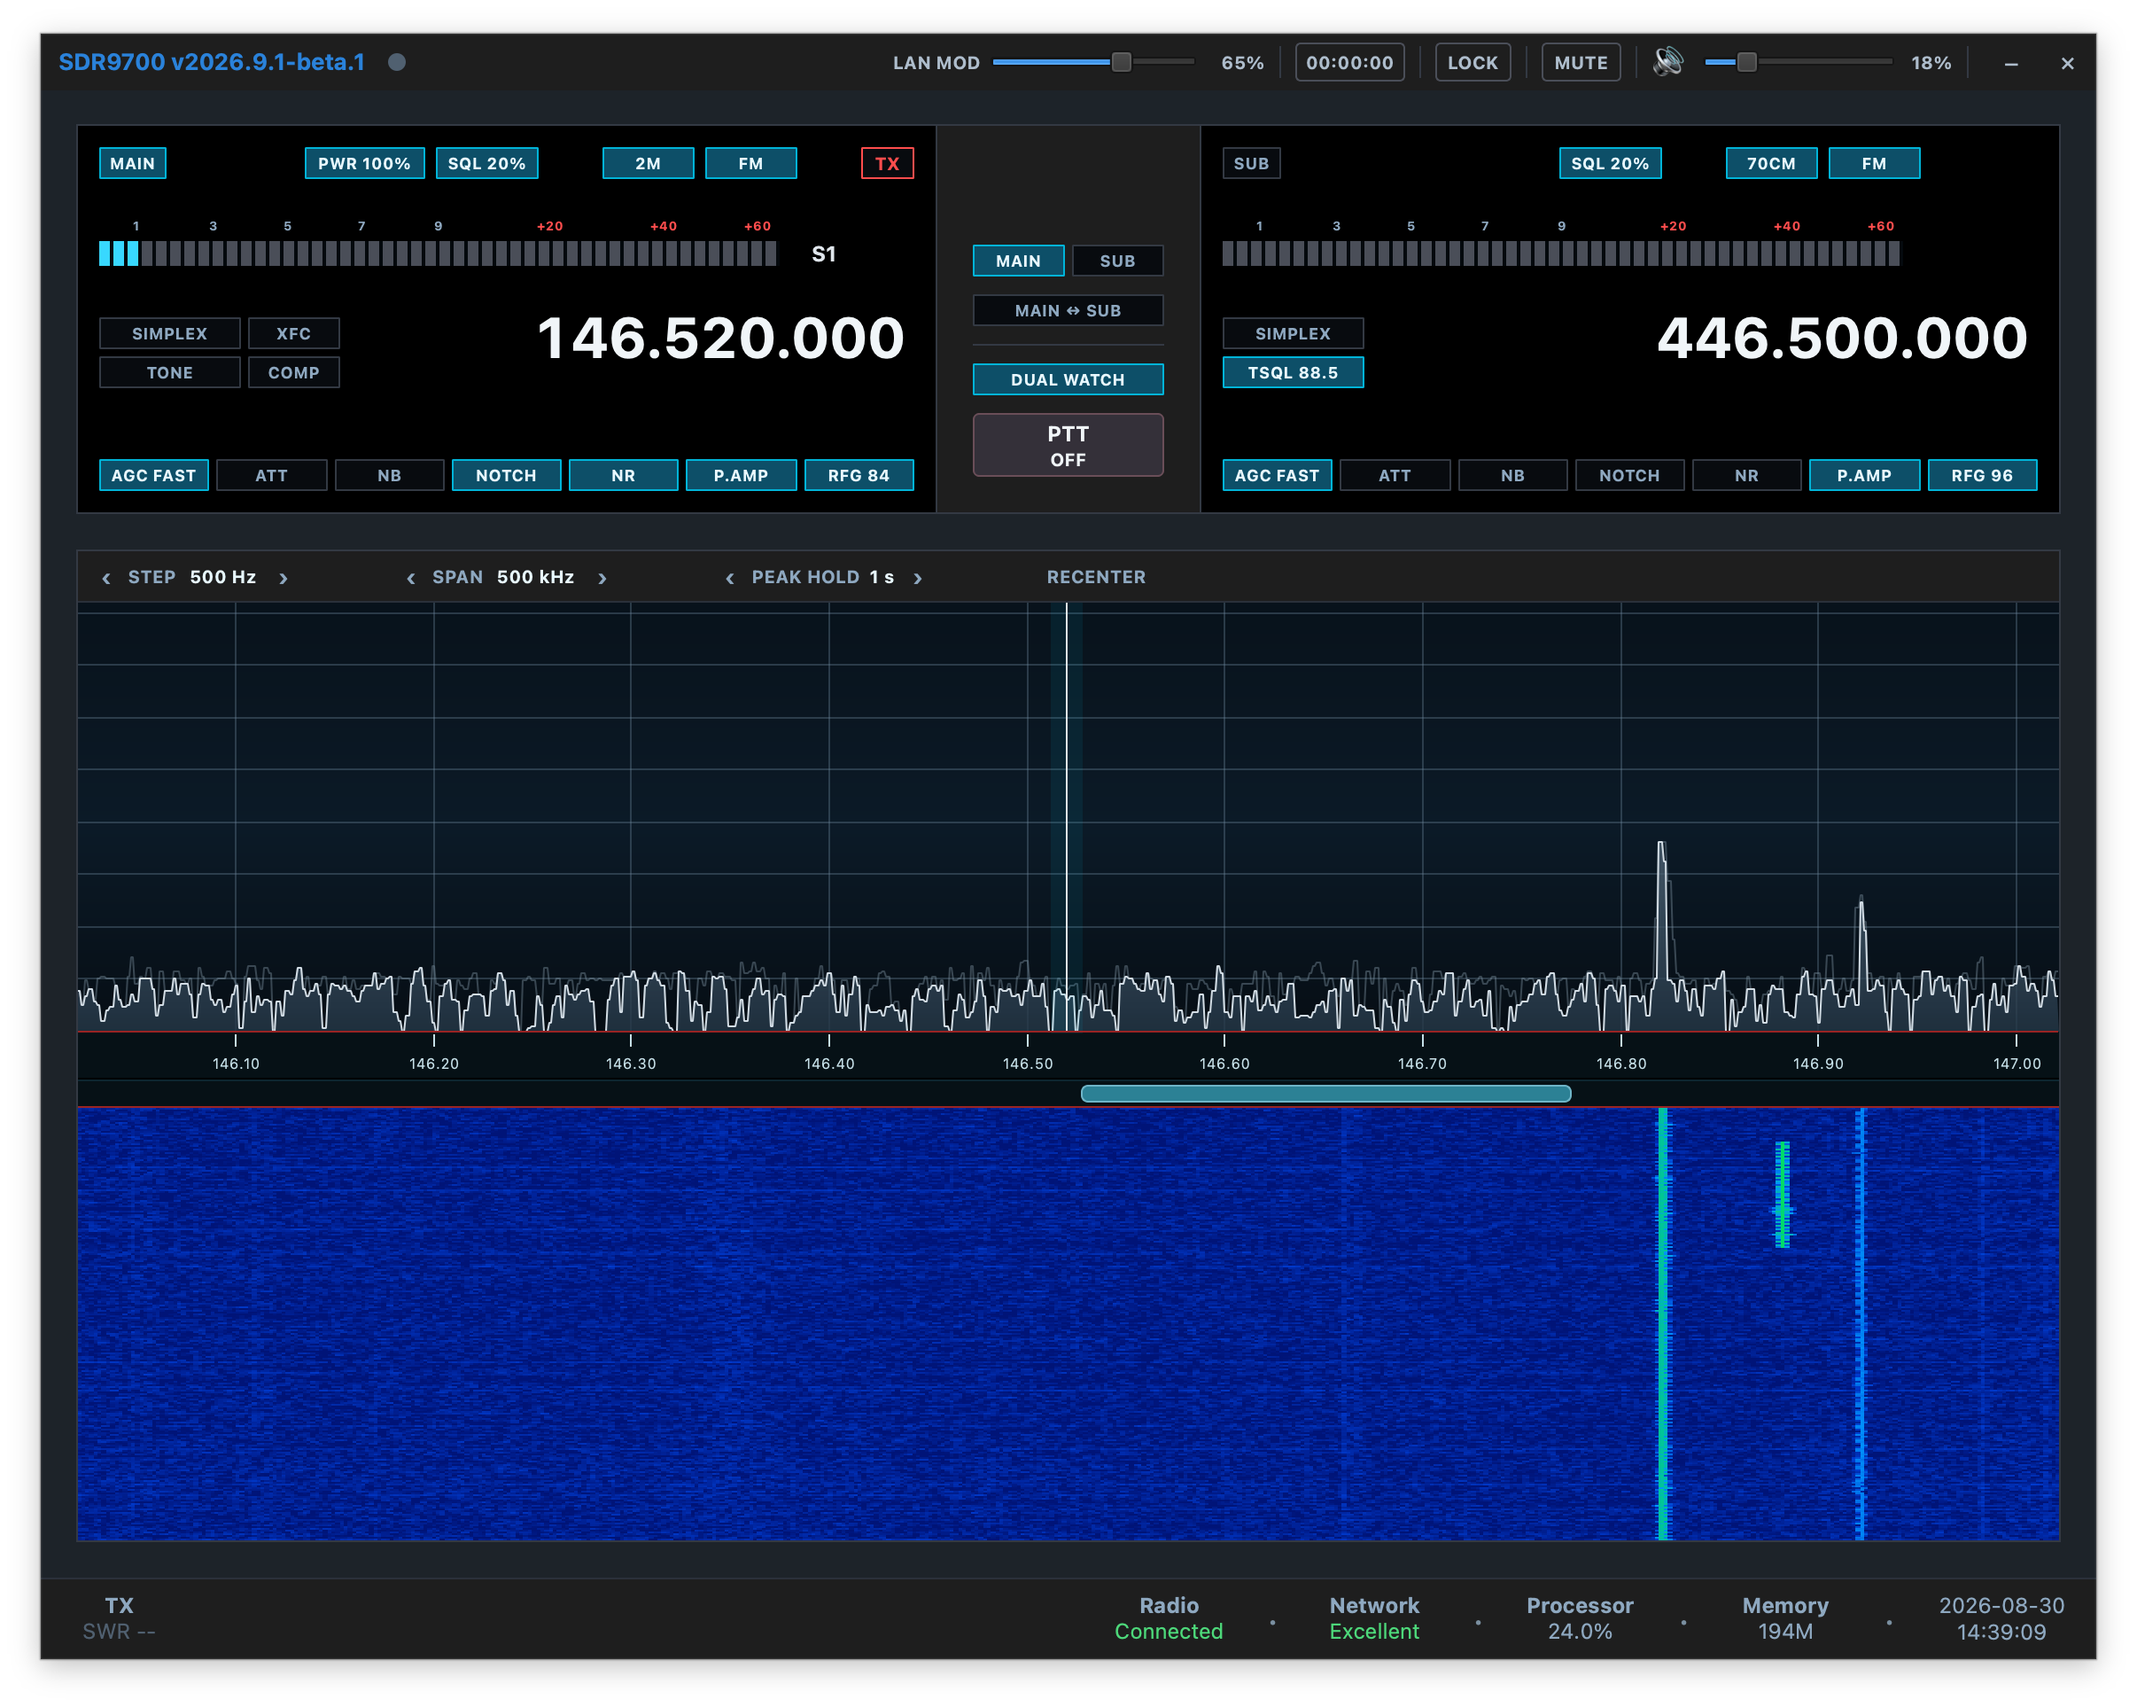
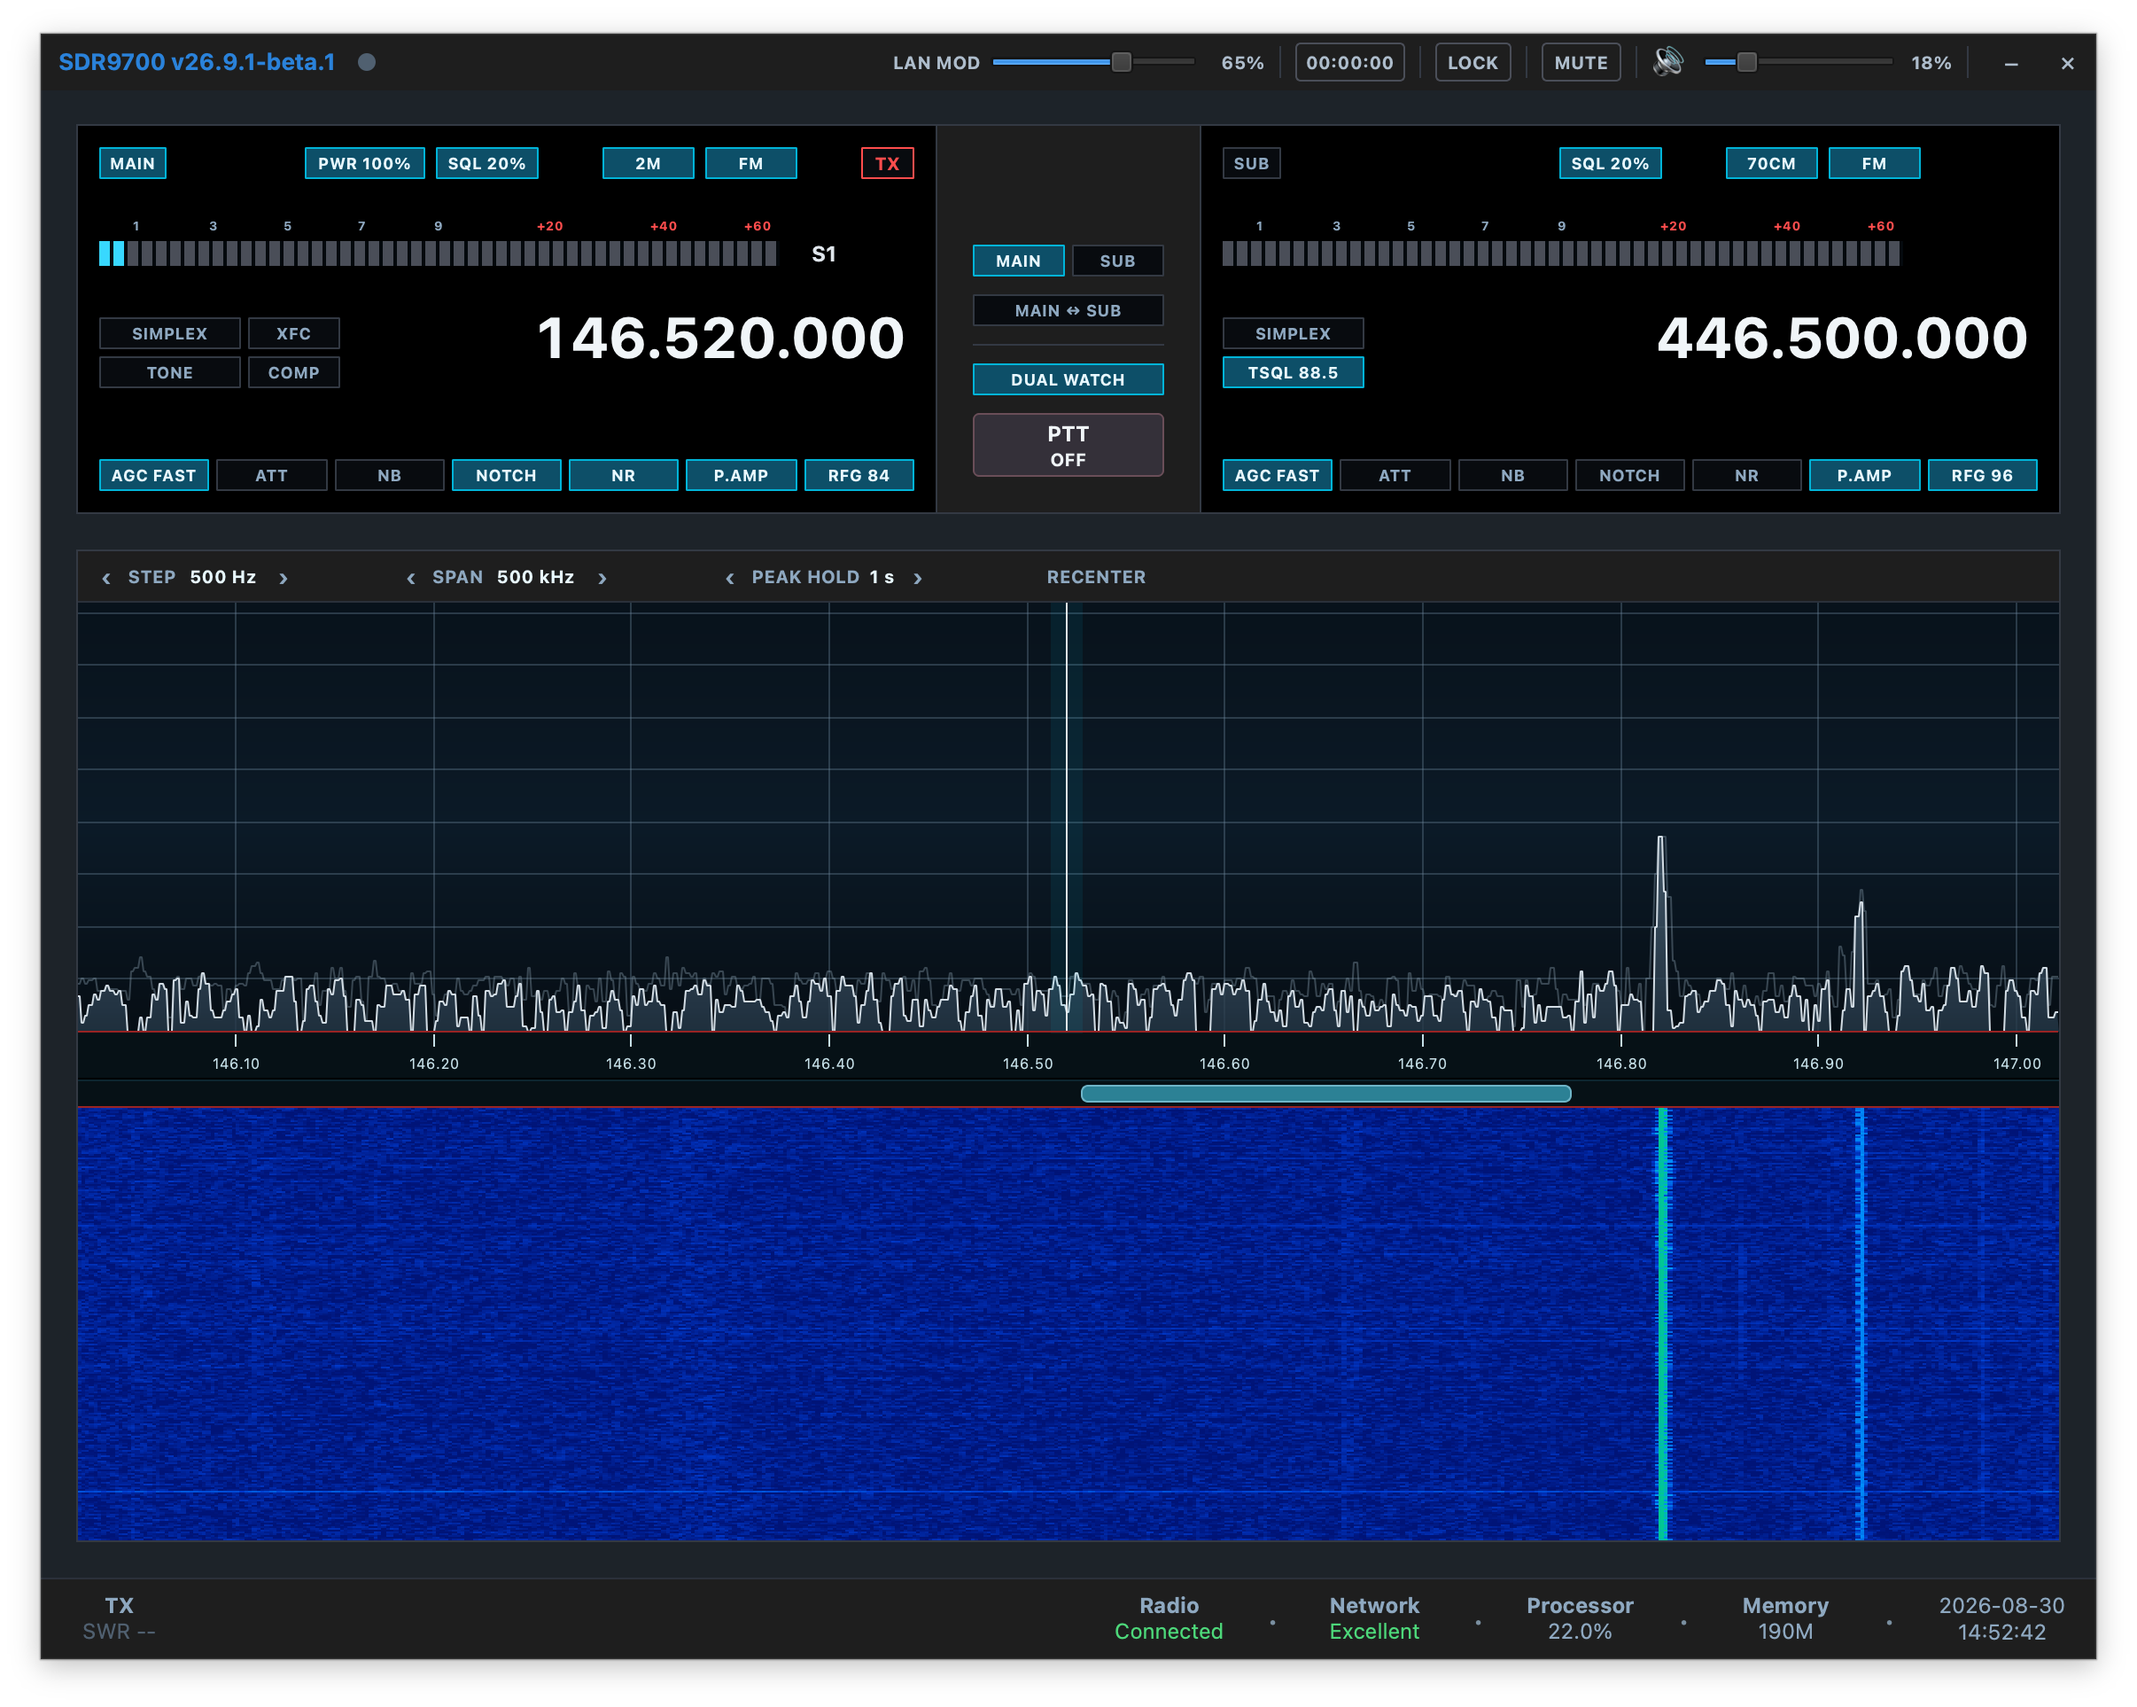
Organize project documentation

diff --git a/docs/development/RELEASING.md b/docs/development/RELEASING.md
@@ -1,0 +1,56 @@
+# Releasing SDR9700
+
+Every GitHub release must include substantive, maintainer-readable release
+notes. GitHub-generated notes may be used as source material, but a changelog
+link by itself is not an acceptable release description.
+
+## Version naming
+
+SDR9700 versions use `YY.M.R`, where `YY` is the final two digits of the
+calendar year, `M` is the numeric month without a leading zero, and `R` is the
+release sequence for that month. For example, the first September 2026 release
+is `26.9.1`.
+
+Stable releases use the numeric version directly, for example `26.9.1`.
+Prereleases append a hyphenated prerelease identifier, starting with
+`-beta.1` and incrementing the final number for each subsequent beta, for
+example `26.9.1-beta.1` and `26.9.1-beta.2`.
+
+Keep the CMake project version numeric because CMake's `project(VERSION)`
+field does not accept prerelease suffixes. For a beta of `26.9.1`, set the
+project version to `26.9.1` and `SDR9700_DISPLAY_VERSION` to the complete
+prerelease version such as `26.9.1-beta.1`.
+
+Do not include a leading `v` in `SDR9700_DISPLAY_VERSION`. The application
+adds that prefix when it builds the title bar, which must read
+`SDR9700 v<version>` (for example, `SDR9700 v26.9.1-beta.1`).
+
+Git tags always add a leading `v`. A beta release therefore uses a tag such
+as `v26.9.1-beta.1`, the title `SDR9700 v26.9.1-beta.1`, and must be marked as a
+GitHub prerelease. Create it with:
+
+```bash
+gh release create v26.9.1-beta.1 --target main --prerelease \
+  --title "SDR9700 v26.9.1-beta.1" --notes-file <file>
+```
+
+## Release checklist
+
+1. Set the numeric CMake project version and `SDR9700_DISPLAY_VERSION` in
+   `CMakeLists.txt`. Include the prerelease suffix only in the display version.
+2. Run a clean Release build with `make release`.
+3. Run the complete test suite with
+   `ctest --test-dir src/build --output-on-failure`.
+4. Write release notes that summarize user-visible highlights, improvements,
+   and fixes since the previous release. End with the full changelog comparison
+   link. Generated notes may be edited into the authored notes, but must not be
+   published without maintainer review.
+5. Commit and push the version change.
+6. Publish the release as `SDR9700 v<version>` with tag `v<version>`, target the
+   verified `main` commit, and supply the authored notes with
+   `gh release create --notes-file <file>`. Add `--prerelease` for beta builds.
+7. Read the published release back with `gh release view` and verify that it is
+   not a draft, its stable/prerelease state is correct, its title and tag match
+   the display version, and its body contains the reviewed notes.
+8. Confirm that the macOS release workflow started and will attach the signed,
+   notarized Apple Silicon DMG to the release.

diff --git a/docs/README.md b/docs/README.md
@@ -1,0 +1,30 @@
+# SDR9700 Documentation
+
+This directory contains maintained technical and developer documentation. Files
+that GitHub, contributors, or development tools conventionally discover at the
+repository root remain there; implementation details and research live here.
+
+## Architecture
+
+- [Architecture](ARCHITECTURE.md) describes the application layers, major
+  components, threading model, radio definitions, and current constraints.
+
+## Development
+
+- [Debugging](development/DEBUGGING.md) documents debug builds, runtime logging
+  categories, and log-file capture.
+- [Releasing](development/RELEASING.md) defines versioning, release notes, and
+  the verification and publication checklist.
+
+## IC-9700 Radio Protocol
+
+- [Radio Disconnect Process](radio/RADIO_DISCONNECT_PROCESS.md) records the
+  hardware-verified authenticated LAN teardown sequence and its regression
+  procedure.
+- [CI-V Command Audit](radio/research/CI_V_COMMAND_AUDIT.md) compares the Icom
+  command reference with SDR9700's compiled capability table.
+- [VFO Command Scope](radio/research/VFO_COMMAND_SCOPE.md) records the verified
+  and inferred receiver scope of MAIN/SUB-related CI-V controls.
+
+The locally retained Icom reference manual is research material under
+`resources/manuals/`; it is not SDR9700 source code or runtime configuration.

diff --git a/README.md b/README.md
@@ -177,18 +177,21 @@ On macOS:
 - `src/radio/`: IC-9700 LAN and CI-V radio protocol code.
 - `src/audio/`: Qt Multimedia audio handlers and conversion utilities.
 - `src/core/`: settings, profile storage, queues, and shared types.
+- `docs/`: architecture, development, protocol, and implementation research
+  documentation.
 - `resources/`: shared images, Qt resources, and platform-specific packaging
   assets under `resources/packaging/`.
 
-## Root Documentation
+## Documentation
+
+The [documentation index](docs/README.md) links the architecture, development,
+release, radio-protocol, and research material maintained with the source.
+
+Repository-level policy and community documents remain at the project root:
 
 - `AGENTS.md`: canonical AI-agent project guide.
 - `CONVENTIONS.md`: coding standards and engineering rules.
 - `CONTRIBUTING.md`: contributor workflow.
-- `DEBUG.md`: developer diagnostics.
-- `ARCHITECTURE.md`: current technical architecture.
-- `NETWORK_SHUTDOWN.md`: verified IC-9700 LAN teardown sequence and regression
-  history.
 - `SECURITY.md`: vulnerability reporting.
 - `CODE_OF_CONDUCT.md`: community behavior expectations.
 

diff --git a/docs/development/DEBUGGING.md b/docs/development/DEBUGGING.md
@@ -4,18 +4,37 @@ Use the debug build when you need debug symbols or debugger-friendly behavior:
 
 ```bash
 make debug
+```
+
+Launch the debug executable directly on Linux:
+
+```bash
 ./src/build/bin/SDR9700
+```
+
+On macOS, the executable is inside the application bundle:
+
+```bash
+./src/build/bin/SDR9700.app/Contents/MacOS/SDR9700
 ```
 
 `make debug` cleans and reconfigures `src/build` with CMake's `Debug` build
 type. Debug builds default to `--log=all` when no explicit log option is
 supplied.
 
-Runtime logging can also be enabled in release builds:
+Runtime logging can also be enabled in release builds. On Linux:
 
 ```bash
 ./src/build/bin/SDR9700 --log=radio,udp,ci-v
 ./src/build/bin/SDR9700 --log=all --log-file=/tmp/sdr9700.log
+```
+
+On macOS, use the corresponding bundled executable:
+
+```bash
+./src/build/bin/SDR9700.app/Contents/MacOS/SDR9700 --log=radio,udp,ci-v
+./src/build/bin/SDR9700.app/Contents/MacOS/SDR9700 --log=all \
+  --log-file=/tmp/sdr9700.log
 ```
 
 Supported logging categories:

diff --git a/docs/radio/research/CI_V_COMMAND_AUDIT.md b/docs/radio/research/CI_V_COMMAND_AUDIT.md
@@ -1,6 +1,6 @@
 # Icom IC-9700 CI-V Command Audit
 
-Source: Icom IC-9700 CI-V Reference Guide, version shown by the PDF metadata as modified 2023-03-30. The repository research copy is `resources/radio/IC-9700_ENG_CI-V_4.pdf`.
+Source: Icom IC-9700 CI-V Reference Guide, version shown by the PDF metadata as modified 2023-03-30. The repository research copy is `resources/manuals/IC-9700_ENG_CI-V_4.pdf`.
 
 This audit compares the manual command table against SDR9700's compiled IC-9700 command table in `src/radio/RadioCapabilities.h` and command translations in `src/radio/Commander.cpp`. The **Implemented** column means the exact CI-V command prefix, or at least one command under that family, has an active encoding or decoding path. `Partial` means SDR9700 implements only some subcommands/registers under that manual command family. This is an implementation inventory, not a hardware-verification record; radio behavior still requires logs, captures, or direct testing.
 

diff --git a/docs/radio/RADIO_DISCONNECT_PROCESS.md b/docs/radio/RADIO_DISCONNECT_PROCESS.md
@@ -1,8 +1,9 @@
-# IC-9700 LAN Shutdown Protocol
+# IC-9700 Radio Disconnect Process
 
-This document records SDR9700's verified shutdown sequence for an authenticated
-IC-9700 LAN session. Treat the ordering below as a protocol invariant. Changes
-to it require an IC-9700 log or packet capture and a close/reopen stress test.
+This document records SDR9700's verified disconnect and shutdown sequence for
+an authenticated IC-9700 LAN session. Treat the ordering below as a protocol
+invariant. Changes to it require an IC-9700 log or packet capture and a
+close/reopen stress test.
 
 ## Why orderly shutdown matters
 

diff --git a/CONVENTIONS.md b/CONVENTIONS.md
@@ -128,7 +128,8 @@ Run it before submitting source changes.
 - Do not change the basic VFO RX flow unless the task explicitly requires it
   and the behavior is tested.
 - Preserve the authenticated LAN teardown order documented in
-  `NETWORK_SHUTDOWN.md`. In particular, send the control-port departure while
+  `docs/radio/RADIO_DISCONNECT_PROCESS.md`. In particular, send the control-port
+  departure while
   its socket is still open and after token-removal acknowledgement.
 
 ## Logging
